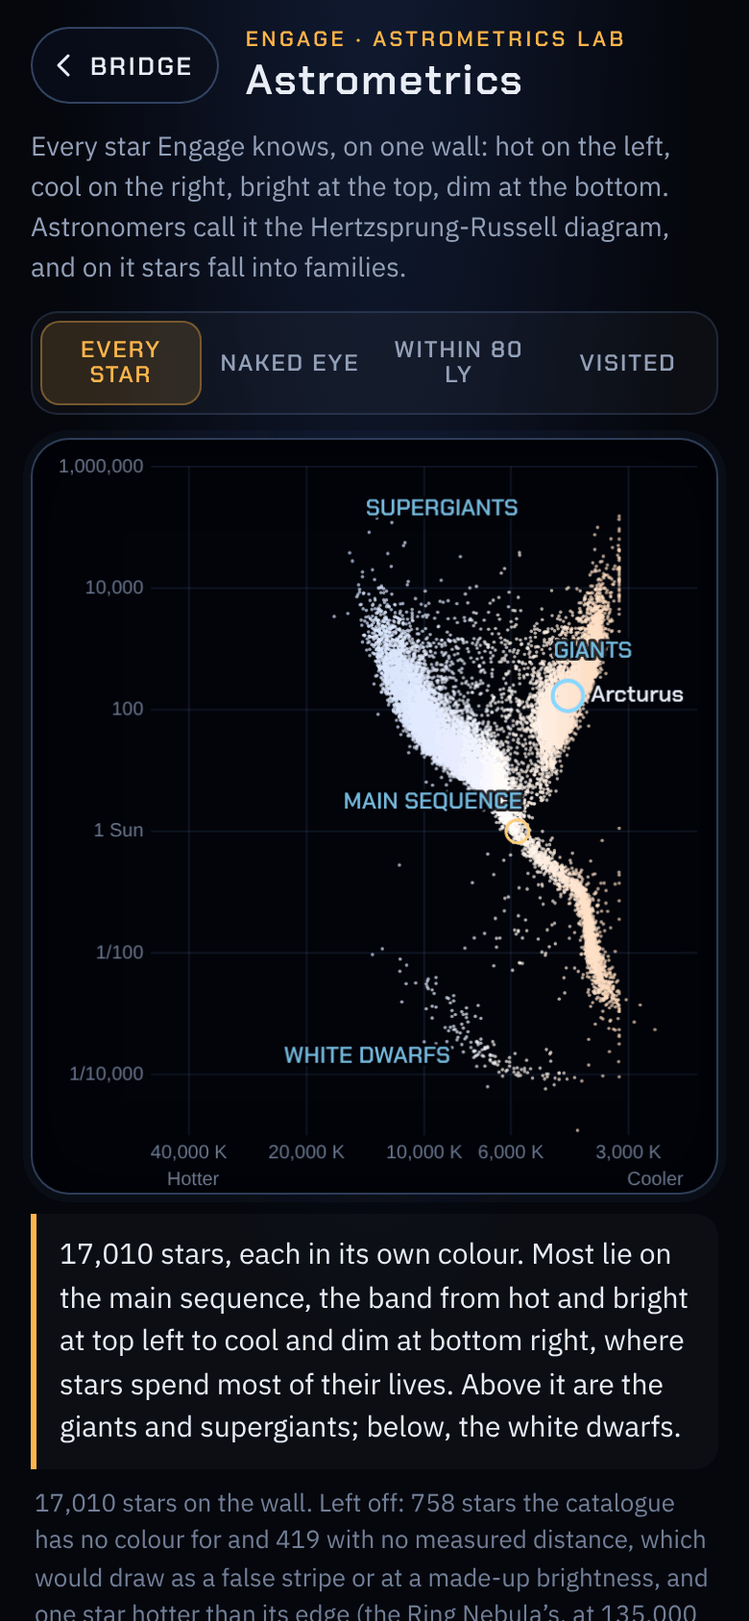
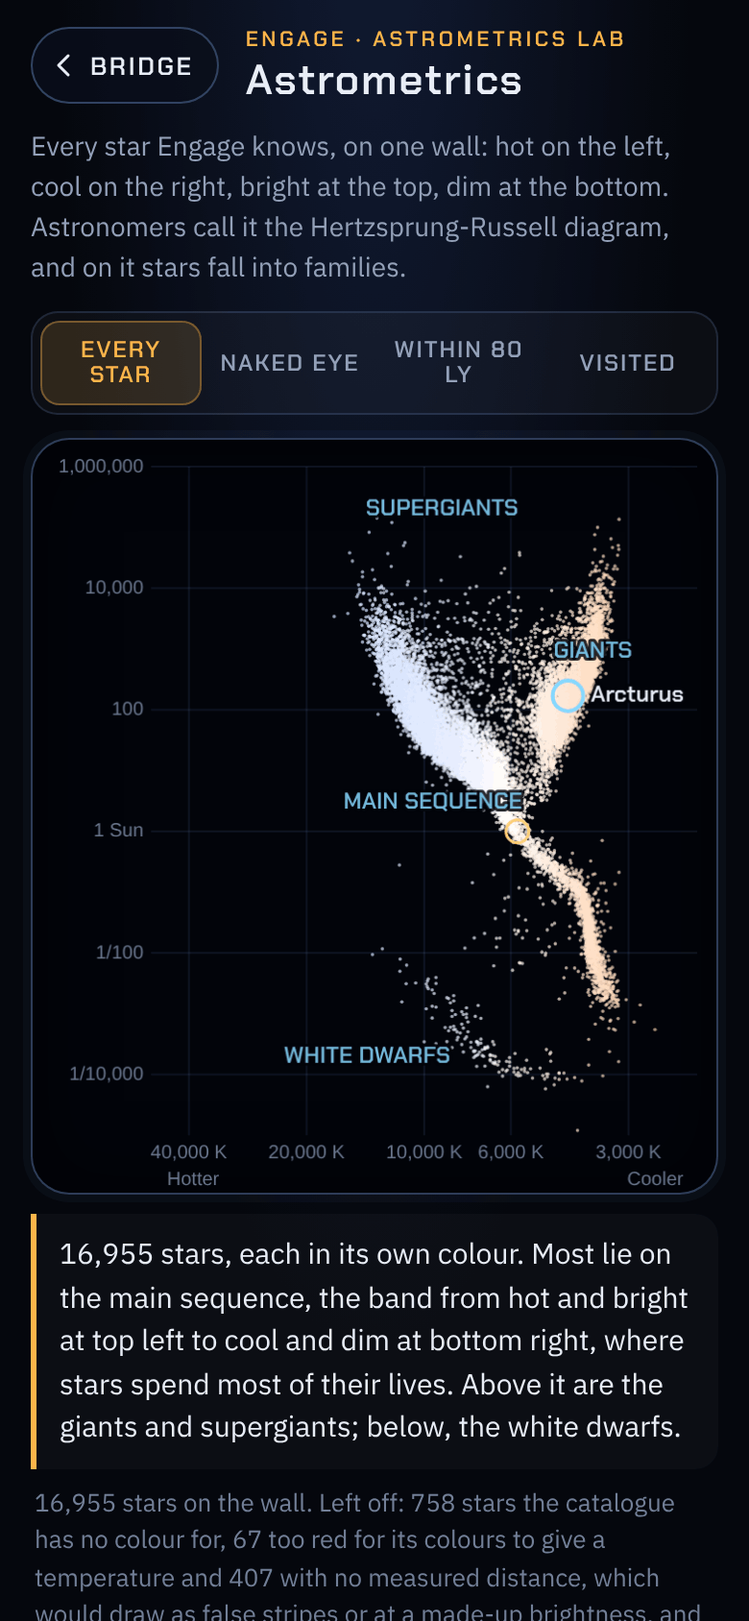
Astrometrics: the stars too red for the colour rule are left off, not stood in one column
The wall had a straight column of 55 stars at 3,169 K, from 100 to 150,000 Suns, on the cool side of the giants. The
catalogue's colour-to-temperature rule (Ballesteros 2012, in js/physics.js) stops at a B-V of 2.0, and every star
redder than that, mostly carbon stars and dust-reddened supergiants such as 119 Tauri, got its reddest temperature:
the same kind of false stripe the room already leaves off for the stars with no colour. js/catalog.js now marks the
67 stars past 2.0 (cat.offscale; a star with notes keeps its measured temperature and isn't marked), the wall leaves
them off and counts them ("67 too red for its colours to give a temperature"; 12 of them have no distance either, so
that count is now 407), a tapped one's card says why, and the log has no astrometrics link for one. 16,955 stars are
on the wall. The Naked eye lesson also read "Only 0% are red dwarfs"; it now says "Not one is a red dwarf" (or "a
handful" when the share rounds to nothing). The README, the README's picture and the link preview are redrawn.

Claude-Session: https://claude.ai/code/session_01PQbLNVDaib7dGBXFANm7XP

diff --git a/js/hr.js b/js/hr.js
@@ -61,19 +61,22 @@ export function family(temp, lum) {
 }
 export const FAMILY_NAMES = { dwarf: 'Main sequence', giant: 'Giants', supergiant: 'Supergiants', 'white dwarf': 'White dwarfs' };
 
-// Which stars go on the wall. Two kinds can't: those the catalogue has no colour for (it gives them a stand-in, so
-// they would all draw in one false stripe at one temperature) and those it has no distance for (so no true
-// brightness). Home goes on as the Sun. `cat` needs `count`, `temp`, `lum`, `nocolour` and `unmeasured`.
+// Which stars go on the wall. Three kinds can't: those the catalogue has no colour for (it gives them a stand-in, so
+// they would all draw in one false stripe at one temperature), those too red for the colour-to-temperature rule
+// (B-V past 2.0: they all get its reddest temperature, another false stripe) and those it has no distance for (so
+// no true brightness). Home goes on as the Sun. `cat` needs `count`, `temp`, `lum`, `nocolour`, `offscale` and
+// `unmeasured`.
 export function wall(cat) {
   const stars = [];
-  let noColour = 0, noDistance = 0, off = 0;
+  let noColour = 0, tooRed = 0, noDistance = 0, off = 0;
   for (let i = 0; i < cat.count; i++) {
     if (cat.nocolour[i]) { noColour++; continue; }
+    if (cat.offscale[i]) { tooRed++; continue; }
     if (cat.unmeasured[i]) { noDistance++; continue; }
     if (!onWall(cat.temp[i], cat.lum[i])) { off++; continue; }
     stars.push(i);
   }
-  return { stars, noColour, noDistance, off };
+  return { stars, noColour, tooRed, noDistance, off };
 }
 
 // The filters, each a lesson. `visited` is a Set of the stars in the log.
@@ -108,7 +111,7 @@ const pct = (a, n) => `${Math.round((100 * a) / Math.max(n, 1))}%`;
 // The line under the wall for a filter: what its stars show.
 export function lesson(filter, c) {
   const n = c.n.toLocaleString('en-US');
-  if (filter === 'eye') return `${n} stars you can see without a telescope. ${pct(c.giant + c.supergiant + c.hot, c.n)} of them are giants, supergiants or main-sequence stars hotter than the Sun: they are the ones bright enough to see from far away. Only ${pct(c.red, c.n)} are red dwarfs.`;
+  if (filter === 'eye') return `${n} stars you can see without a telescope. ${pct(c.giant + c.supergiant + c.hot, c.n)} of them are giants, supergiants or main-sequence stars hotter than the Sun: they are the ones bright enough to see from far away. ${c.red ? `Only ${pct(c.red, c.n) === '0%' ? 'a handful' : pct(c.red, c.n)} are red dwarfs.` : 'Not one is a red dwarf.'}`;
   if (filter === 'near') return `${n} stars within 80 light years, the neighbourhood the catalogue knows best. ${pct(c.red, c.n)} of them are red dwarfs, too faint to see by eye, and only ${pct(c.giant + c.supergiant, c.n)} are giants: close to, most stars are small and dim. The catalogue is still missing red dwarfs too faint to have been found.`;
   if (filter === 'visited') {
     if (c.n < 2) return 'Nothing in your log yet but home. Fly somewhere, and it lands here.';

diff --git a/js/astrometrics.js b/js/astrometrics.js
@@ -144,6 +144,7 @@ function renderCard() {
   const title = titleFor(cat, i), tag = chartFor(cat.names[i])?.tag;
   let where;
   if (cat.nocolour[i]) where = 'The catalogue has no colour for it, so it isn’t on the wall.';
+  else if (cat.offscale[i]) where = 'It is redder than the catalogue’s colours can turn into a temperature (a B-V past 2.0), so it isn’t on the wall.';
   else if (cat.unmeasured[i]) where = 'It has no measured distance, so nobody knows how bright it really is: it isn’t on the wall.';
   else if (!onWall.stars.includes(i)) where = `At ${Math.round(cat.temp[i]).toLocaleString('en-US')} K it is off the wall’s hot edge.`;
   else where = `${FAMILY_SAID[family(cat.temp[i], cat.lum[i])]}: ${(Math.round(cat.temp[i] / 10) * 10).toLocaleString('en-US')} K, ${lumSaid(cat.lum[i])}.`;
@@ -221,8 +222,9 @@ loadCatalog().then(c => {
   visited = readVisited();
   const left = [];
   left.push(`${onWall.noColour.toLocaleString('en-US')} stars the catalogue has no colour for`);
+  left.push(`${onWall.tooRed.toLocaleString('en-US')} too red for its colours to give a temperature`);
   left.push(`${onWall.noDistance.toLocaleString('en-US')} with no measured distance`);
-  $('left-out').textContent = `${onWall.stars.length.toLocaleString('en-US')} stars on the wall. Left off: ${left.join(' and ')}, which would draw as a false stripe or at a made-up brightness${onWall.off ? `, and ${onWall.off === 1 ? 'one star' : `${onWall.off} stars`} hotter than its edge (the Ring Nebula’s, at 135,000 K)` : ''}.`;
+  $('left-out').textContent = `${onWall.stars.length.toLocaleString('en-US')} stars on the wall. Left off: ${left.slice(0, -1).join(', ')} and ${left[left.length - 1]}, which would draw as false stripes or at a made-up brightness${onWall.off ? `, and ${onWall.off === 1 ? 'one star' : `${onWall.off} stars`} hotter than its edge (the Ring Nebula’s, at 135,000 K)` : ''}.`;
   open();
   window.astrometrics.ready = true;
 });

diff --git a/sw.js b/sw.js
@@ -8,7 +8,7 @@
 // fingerprint of every file in SHELL: change any of them and test/e2e.mjs fails until FILES is changed to match (it
 // says what to), which changes this file, so every copy is made whole again at once.
 const CACHE = 'engage-v42'; // bump the number when the file list changes
-const FILES = '46664d4e'; // test/e2e.mjs checks this
+const FILES = '643eb632'; // test/e2e.mjs checks this
 const SHELL = [
   './', 'index.html', 'survey.html', 'maru.html', 'missions.html', 'tonight.html', 'xeno.html', 'contact.html', 'warp.html', 'system.html', 'away.html', 'radio.html', 'astrometrics.html', 'icon.svg', 'manifest.webmanifest',
   'css/app.css', 'css/survey.css', 'css/maru.css', 'css/missions.css', 'css/tonight.css', 'css/xeno.css', 'css/contact.css', 'css/warp.css', 'css/system.css', 'css/away.css', 'css/radio.css', 'css/astrometrics.css', 'js/app.js', 'js/maru.js', 'js/maru-sim.js', 'js/archive.js', 'js/missions.js', 'js/tonight.js', 'js/xeno.js', 'js/xeno-gen.js', 'js/xeno-art.js', 'js/species.js', 'js/contact.js', 'js/contact-sim.js', 'js/contact-art.js', 'js/contacts.js', 'js/warp.js', 'js/warp-scale.js', 'js/deepsky.js', 'js/wake.js', 'js/astro.js', 'js/charts.js', 'js/ships.js', 'js/ephemeris.js', 'js/classes.js', 'js/planet-art.js', 'js/survey.js', 'js/pace.js', 'js/moons.js', 'js/quiz.js', 'js/hunt.js', 'js/hunt-view.js', 'js/audio.js', 'js/catalog.js', 'js/destinations.js', 'js/log.js', 'js/search.js', 'js/share.js', 'js/switch.js', 'js/officer.js', 'js/officer-sim.js', 'js/store.js', 'js/onscreen.js', 'js/physics.js', 'js/sky.js', 'js/rooms.js', 'js/sheets.js', 'js/courses.js', 'js/logbook.js', 'js/voyage.js', 'js/myship.js', 'js/records.js', 'js/voyages.js', 'js/impulse.js', 'js/lives.js', 'js/computer.js', 'js/variables.js', 'js/worlds.js', 'js/system.js', 'js/away.js', 'js/cartography.js', 'js/chart-view.js', 'js/radio.js', 'js/radio-room.js', 'js/hr.js', 'js/astrometrics.js',

diff --git a/js/catalog.js b/js/catalog.js
@@ -54,6 +54,11 @@ export function buildCatalog(bin, meta) {
   const nocolour = new Uint8Array(n);
   const STAND_IN = Math.fround(0.6);
   for (let i = 0; i < base; i++) if (raw[i * 5 + 4] === STAND_IN) nocolour[i] = 1;
+  // Stars redder than a B-V of 2.0, mostly carbon stars and dust-reddened supergiants, where the colour-to-temperature
+  // rule (js/physics.js) stops: they all get its reddest temperature, about 3,170 K, so it is only a floor for them
+  // (astrometrics leaves them off its wall too, where they would stand in one false column).
+  const offscale = new Uint8Array(n);
+  for (let i = 0; i < base; i++) if (raw[i * 5 + 4] > 2.0) offscale[i] = 1;
   for (let i = 0; i < n; i++) {
     pos[i * 3] = raw[i * 5]; pos[i * 3 + 1] = raw[i * 5 + 1]; pos[i * 3 + 2] = raw[i * 5 + 2];
     absmag[i] = raw[i * 5 + 3];
@@ -68,12 +73,12 @@ export function buildCatalog(bin, meta) {
   for (const d of DESTINATIONS) {
     const i = byName.get(d.star);
     if (i === undefined) continue;
-    if (d.temp) { temp[i] = d.temp; lum[i] = d.lum; radius[i] = d.radius; }
+    if (d.temp) { temp[i] = d.temp; lum[i] = d.lum; radius[i] = d.radius; offscale[i] = 0; }
   }
   for (let i = 0; i < n; i++) color.set(starColor(temp[i]), i * 3);
 
   return {
-    count: n, pos, absmag, color, radius, temp, lum, unmeasured, nocolour,
+    count: n, pos, absmag, color, radius, temp, lum, unmeasured, nocolour, offscale,
     names, spect,
     constellations: meta.constellations, lines: meta.lines,
     byName,

diff --git a/js/app.js b/js/app.js
@@ -1211,10 +1211,10 @@ function placeLink(i, style) {
 }
 
 // Under the line on what kind of star it is, a link to astrometrics, with the star ringed among all the others on
-// the wall of colour against true brightness. Not for a star the wall leaves off (no colour, or no distance, on the
-// charts).
+// the wall of colour against true brightness. Not for a star the wall leaves off (no colour, too red a colour, or
+// no distance).
 function wallLink(i, style) {
-  if (!(i >= 0 && i < cat.count) || cat.unmeasured[i] || cat.nocolour[i]) return '';
+  if (!(i >= 0 && i < cat.count) || cat.unmeasured[i] || cat.nocolour[i] || cat.offscale[i]) return '';
   return `<dd class="files"${style}><a href="${ASTROMETRICS}#star=${encodeURIComponent(cat.names[i])}"${AWAY}>Astrometrics: where this star sits</a></dd>`;
 }
 

diff --git a/README.md b/README.md
@@ -55,7 +55,7 @@
 - **The system view** ([system.html](https://engage.junkdrawer.works/system.html), from **System view: fly in to its planets** in a log entry’s planets, or **System view** beside a real planet on a survey file) draws a star’s real planets from above, each on its orbit at true spacing and painted the way the survey would file it, with the temperate zone shaded: where a planet like Earth could keep liquid water, from Kopparapu and others 2013 (*Astrophysical Journal* 765, 131; 0.99 to 1.70 AU for the Sun), with their wider Venus and Mars edges dashed. It has the 22 planets of Sol, Proxima, Luyten’s Star, Teegarden’s Star and TRAPPIST-1, from the NASA Exoplanet Archive and NASA’s planetary fact sheet, each with its source. The Solar System’s planets stand where they are today; an exoplanet’s place along its orbit isn’t known, so they are spread out and go round at their true pace, and the page says so. Tap one and the ship glides in: the planet lit from its star, the star from that orbit drawn beside the Sun from Earth to the same scale, and its orbit, year, size (a minimum mass says so, and its width is what rock that heavy would be), sunlight, temperature and where it sits against the zone. It opens at the planet the bridge holds in the orbit of, so Earth orbit shows Earth. **Place a planet**, under it, works round any star with a measured distance: drag its orbit, pick a size from the Moon to Jupiter, and it says the light it would get, the temperature its star alone would warm it to (with Earth’s reflectivity, by which Earth itself is 255 K), where the zone falls, and the survey file it would go on, with **Grow a creature for it**. **Place a planet here** beside a log entry’s temperate orbit opens it at that star.
 - **The away team** ([away.html](https://engage.junkdrawer.works/away.html), **Beam down** in the system view or on a survey file) stands you on one of the 18 planets in the system view small enough to be rock. The horizon is drawn from the real catalogue as seen from that star: by day its sun at its true width and colour (from Proxima b 1.7°, a little over three times ours; from TRAPPIST-1 e four times), by night the stars and the constellations’ lines come apart, with the Sun ringed and its magnitude given (5.3 from TRAPPIST-1), or a line saying it is in the daytime sky just now. Sister planets are discs as wide as they look from there, lit on their sun’s side. A readings strip gives the gravity, what a 70 kg person weighs, the year, the sunlight, the sun’s width, and for a world close to a small star, that it is expected to keep one face to its star, so the sun never sets (Barnes 2017, *Celestial Mechanics and Dynamical Astronomy* 129, 509). On Proxima b, Teegarden’s Star b and TRAPPIST-1 e the lab’s creature for that world stands in front of you, with a link to it in the lab. Drag, or the arrow keys, to look round.
 - **Subspace radio** ([radio.html](https://engage.junkdrawer.works/radio.html), from **Subspace radio: what it hears from Earth** under a log entry’s Looking home, or the foot of Set course) is the log’s line about Earth’s broadcasts with somewhere to go. Tune the dial to a year from 1936 to now and the map, every star within 100 light years seen from above the galaxy, lights the shell where that year’s broadcasts are tonight: “58 catalogued stars are hearing 1966 tonight, 59.9 to 60.9 light years out”, under what was on the air or what happened that year (“In 1966, Star Trek premiered on television”), with three of them named, each with **Set course** and **In your sky tonight**. Tap a star on the map, or come from the log, and the dial turns to the year it is hearing. **Messages in flight** lists the real messages people have aimed at real stars, from the Arecibo message (1974) and CALL to the COSMOS’83 (Altair, arrived about 2000) to Sónar Calling GJ273b (Luyten’s Star, due about 2030), each with a bar for how far it has gone, worked out from the day it left and the catalogue’s distance (sources: Wikipedia’s “List of interstellar radio messages” and its articles). **Hail a star** sends a hail of your own to any star with a measured distance and keeps it, one to a star, with when it lands. Links: `radio.html#year=1969`, `radio.html#star=Vega`, `radio.html#messages`, `radio.html#hail=Vega`; your hails are kept under `engage.radio.v1` and go in the ship’s records file with everything else.
-- **Astrometrics** ([astrometrics.html](https://engage.junkdrawer.works/astrometrics.html), from **Astrometrics: where this star sits** under a log entry’s The star) puts every star Engage knows on one wall: hot on the left, cool on the right, bright at the top and dim at the bottom, each dot in its own colour. Astronomers call it the Hertzsprung-Russell diagram, and on it the stars fall into families: the main sequence, the giants, the supergiants and the white dwarfs. Four filters each teach something: **Every star**; **Naked eye**, nearly all giants and stars hotter than the Sun, the ones bright enough to see from far off; **Within 80 ly**, where red dwarfs are the most common kind and giants are hardly there; and **Visited**, your log. Tap a star for its card (what it is, how far, its family, temperature and light, **Set course**, **In your sky tonight**). **The Sun’s life** slider walks it along its real track (Sackmann, Boothroyd and Kraemer 1993) from the main sequence to a red giant 166 times its width, then shedding its layers, and ending as a white dwarf where 40 Eridani B, beside Vulcan’s sun, sits now. The wall leaves off, and says so, the 758 stars the catalogue has no colour for (they would draw as one false stripe) and the 419 with no measured distance. Links: `astrometrics.html#star=Vega`, `#filter=eye` (or `near`, `visited`), `#sun=4`.
+- **Astrometrics** ([astrometrics.html](https://engage.junkdrawer.works/astrometrics.html), from **Astrometrics: where this star sits** under a log entry’s The star) puts every star Engage knows on one wall: hot on the left, cool on the right, bright at the top and dim at the bottom, each dot in its own colour. Astronomers call it the Hertzsprung-Russell diagram, and on it the stars fall into families: the main sequence, the giants, the supergiants and the white dwarfs. Four filters each teach something: **Every star**; **Naked eye**, nearly all giants and stars hotter than the Sun, the ones bright enough to see from far off; **Within 80 ly**, where red dwarfs are the most common kind and giants are hardly there; and **Visited**, your log. Tap a star for its card (what it is, how far, its family, temperature and light, **Set course**, **In your sky tonight**). **The Sun’s life** slider walks it along its real track (Sackmann, Boothroyd and Kraemer 1993) from the main sequence to a red giant 166 times its width, then shedding its layers, and ending as a white dwarf where 40 Eridani B, beside Vulcan’s sun, sits now. The wall leaves off, and says so, the 758 stars the catalogue has no colour for and the 67 too red for its colours to give a temperature (each lot would draw as one false stripe), and the 407 with no measured distance. Links: `astrometrics.html#star=Vega`, `#filter=eye` (or `near`, `visited`), `#sun=4`.
 - **The xenobiology lab** ([xeno.html](https://engage.junkdrawer.works/xeno.html), the green flask on the bridge, or **Grow a creature** on any survey file) grows a creature for whichever planet class you pick, drawn in its home next to a person or a scale bar. The world decides the body: stronger gravity means more, thicker legs and a smaller animal; thick air and gentle gravity grow wings; a red dwarf’s dim light means huge eyes and near-black skin; no light means no eyes at all; heat grows a radiator sail, cold grows fur; above about 180 °C the lab gives up on water and guesses at a body of rock, like the Horta. Four field notes explain each choice, and a line says how seriously to take it. **Grow its neighbours**, under the notes, grows two more creatures for the same spot by the same rules, what it eats and what eats it, drawn smaller in the tank beside it, each with a note on why it has its shape (“At 2.8 g a hunter can’t leap or chase without breaking a leg, so it waits low beside the trail and lunges”); a gas giant’s are the sinkers and hunters Carl Sagan and Edwin Salpeter imagined beside the floaters in Jupiter’s clouds (*Astrophysical Journal Supplement* 32, 737, 1976). Plants, and the crawlers of bare rock, have none. Gas giants grow drifting gas bags, ocean worlds grow swimmers, Class L grows plants (it has no animals), and every creature has a name put together from what is true of it (its colour, coat, eyes, size and build, and where it lives), a Latin one to go with it, and a link that brings it back: **Send this creature** shares it. **Save a picture** draws a tall card of the creature in its scene, with its name (and yours, if its jar has one), its four field notes’ headings and “Grown in the xenobiology lab”, and hands it to the phone’s share sheet, or downloads it where the browser can’t share a file; it is all drawn in the page. Star Trek species and real Earth life sit alongside as reference specimens, and **Keep in a jar** saves the ones you like, and tapping a jar’s name gives it one of your own (“Biscuit”), shown above the creature’s on the shelf and on its card. The lab only ever rolls specimen numbers 1 to 9,999, so it can grow exactly 169,983 creatures, and every one has been counted: a card says when its body plan is rare for its class (“Uncommon: 171 of Class M’s 9,999 specimens fly”, and for specimen 1218, “One of a kind: the only Class H specimen that flies”), and **Lab records** links to the six record-holders, from a gas bag a kilometre across to a crawler half a millimetre long. Six real planets have a button of their own on their survey files and in the log, such as **Grow a creature for Proxima b**, and so do Europa and Enceladus, whose creatures always live in the sea under the ice: the lab then uses the planet’s own measured mass, width, temperature and star (a width nobody has measured is worked out “if it is rock”), and a fifth note says what is really known about it. Their links read `xeno.html#world=Proxima%20b-42`, beside `xeno.html#M-42` for a class. The **Bench** tab beside **Grow** grows the creature in the tank again under readings you set on four sliders: gravity (marked at the Moon, Mars, Earth and Jupiter, from NASA’s planetary fact sheets), air (Mars, Earth and Venus, down to none at all), light (no star, a red dwarf, an orange dwarf, a Sun-like star) and heat (where water freezes and boils, and where the lab gives up on it). It starts as the same animal, and a slider changes only what its reading decides: the parts that change glow for a moment, that reading’s field note lights up, and a line says which survey file the readings would pass for (“These readings would pass for a super-Earth”). **Back to its own readings** puts it back, **Grow** returns to the creature it started from, and the link keeps the readings: `xeno.html#bench=M-42&g=2.5&air=1&light=red&heat=288`. **Compare two**, over your jars, puts two of them side by side: both creatures, their gravity, air, light and heat in a row each (marked when they’re alike), and one sentence from the difference that matters most (“Air: 0.017 atm against 1.1 atm. That is why one breathes through sacs along its back and the other breathes much as we do.”). **Send this pair** shares a link that opens the same two for anyone: `xeno.html#pair=K-8371&M-42`.
 - **The Kobayashi Maru** ([maru.html](https://engage.junkdrawer.works/maru.html), the Starfleet delta on the bridge) is the Academy’s no-win test. The fuel carrier *Kobayashi Maru* is adrift inside the Klingon Neutral Zone with 381 aboard. Give one order a turn: hail, cross the line, beam survivors over (your shields drop while the transporter runs), fire, evade, go to warp, offer surrender or abandon ship. The simulation is rigged the way the Academy rigs it: the Maru is always lost and the cruisers keep coming. The briefing says where the film puts her, Gamma Hydra, Section 10, and links to the real Gamma Hydrae in tonight’s sky and at the helm. At the end the examiners grade how you lost on compassion, judgment, restraint and nerve, and say what cost you any grade below an A; Judgment never goes above a B, and the evaluation says so when you reach it. Hailing the Klingons buys one quiet turn, and it is really free: their fire, their attack on the Maru and their reinforcements don't count it. Under the verdict, the examiners' archive says how rare your ending is: how often the simulator ends that way when it is given orders at random (“About 1 in 14 ends this way”), and a run that brings 150 home is told nobody has brought more. The evaluation says what the run added to your record: an ending you hadn’t seen (“New ending · 2 of 9 seen”) and any grade that beat your best. Your record stays on the briefing: which of the nine endings you’ve seen (the rest stay unnamed), your best grade in each, and your latest runs. Come back and the examiners open the briefing with a line for you (“Third attempt. The board notes your persistence.”). **Today’s simulation** throws the same dice for every cadet that day; once you’ve taken it, the briefing keeps the line to send (“Kobayashi Maru, 18 Nov: The lifeboat, 150 home, C B B B”). **Share this run** sends that line with a link (`maru.html#run=…`) that plays your run back, turn by turn, for whoever opens it, then shows them your evaluation and offers them the same simulation with the same dice; nothing goes on their record. After your first run you can reprogram the simulator, as one cadet did. A simulation you leave part-way is kept, and the briefing offers to resume it. A second test waits under the briefing: **the Bridge Officer’s Test**, after *The Next Generation*’s “Thine Own Self” (season 7, episode 16): a damaged ship, six minutes to a warp core breach, and seven sensible things to try that don’t work. The one that does is to order the chief engineer into a flooded compartment he won’t come out of; the board’s verdict says what the other orders were for, and the briefing keeps whether you’ve passed. **One-switch play**, a box on the briefing of the Maru and of first contact (and remembered for both), steps a highlight through the choices on screen every second and a half; one press of any key or switch, or a tap anywhere, picks it, so a whole run and its evaluation take one button.
 - **First contact** ([contact.html](https://engage.junkdrawer.works/contact.html), the speech bubble on the bridge) is a ship nobody has seen before, hailing you. The universal translator has their words but not their meaning: like the Tamarians in *Darmok*, they speak in images from their own stories (“Kesh and Ravu at Tavar”, “Mirel, her hands open”). Each phrase they use goes into a notebook, where you write down what you think it means from when they say it and what they’re doing at the time. You answer by choosing up to three of their own phrases. On a phone, your reply and Send stay at the foot of the screen while the encounter lasts, under their latest words, so a phrase far down the notebook can be sent without scrolling back up. Get it right and they go on: a greeting, a warning about what’s coming (an ion storm, a creature that feeds on shields, or an old minefield), a request to cross it together, a gift, when to wait and when to go. Their own words said straight back answer a greeting or a warning, as Picard’s did, but not a question: asked to cross with them, take their gift or go, the captain only asks again. Get it wrong and their patience wears thin. Raising your shields costs some too, and anything about weapons costs double. **Listen again** has them put it another way, and **Speak Standard** shows you how they say they don’t understand. Every encounter is a new language, made up from a seed: new sounds, new heroes and places, new images, and a new face on the viewscreen. The debrief shows what every phrase really meant against your guesses and translates the whole conversation, and if it goes well, they make up a new phrase about the day they met you. It also says how rare the ending is: answered with phrases picked at random, about 1 encounter in 26 makes first contact. The debrief says when the notebook was your best yet and counts each first contact as you make it, and the briefing keeps your record: species met, contacts made, and your best notebook. **Today’s hail** is the same ship, in the same language, for every officer that day; once you’ve answered it, the briefing keeps the line to send (“First contact, 19 Nov: the Qaethuk. First contact, 9 of 11 phrases decoded”), and its link plays your encounter back with your notebook, so two people can compare notes on the same aliens. Under the briefing, **Linguist’s challenges** are five named hails in the hardest languages the translator makes: each has seven “false friends”, pairs of phrases that end in the same image and mean different things (“the gates open” for hello, “the road open” for go), the most a language can have; of 200,000 languages, 38% have none and about 1 in 350 has seven. Each is marked once contact is made, with your best notebook, and **Send** shares a link (`contact.html#hail=…`) that opens the briefing on that hail. **Share this encounter** sends a link (`contact.html#run=…`) that plays the encounter back for a friend, with your notebook’s guesses, then shows them your debrief and offers them the same hail, in the same language. The hail comes in wherever the bridge left your ship: the briefing says she has dropped out of warp “here at Vega” (or in Earth orbit), and the record keeps the star. After a first contact, the captain’s log entry for that stay and tonight’s card for that star say so (“First contact was made here with the Qaethuk, stardate 2026.880”), and the debrief links to the xenobiology lab: **What might live on their world**. From the second ship on, the briefing opens by saying which ship this is and who the last were. An encounter you leave part-way is kept too, notebook and all, to resume. **Second contact**: a people you made first contact with hails again from the briefing (“The Qaethuk are hailing again”), once each, in the same language, with your notebook from that day open. This time their ship is crippled by another of the three dangers, and none of the six moments is answered with their own words: they ask whether it’s really you, need help, ask whether you fired on them (“yes” is a confession), offer you a crystal for your trouble (they want “no, together”; either half alone makes the captain wait for the rest, and costs patience), want to run before their engines are ready (“yes” sends them off too soon) and invite you home. It goes on the record as an encounter but not as a species met, the log and tonight’s sky tell where it was made, and a shared second contact (`contact.html#run=2.…`) plays back for a friend, who is then offered the same people’s first hail.
